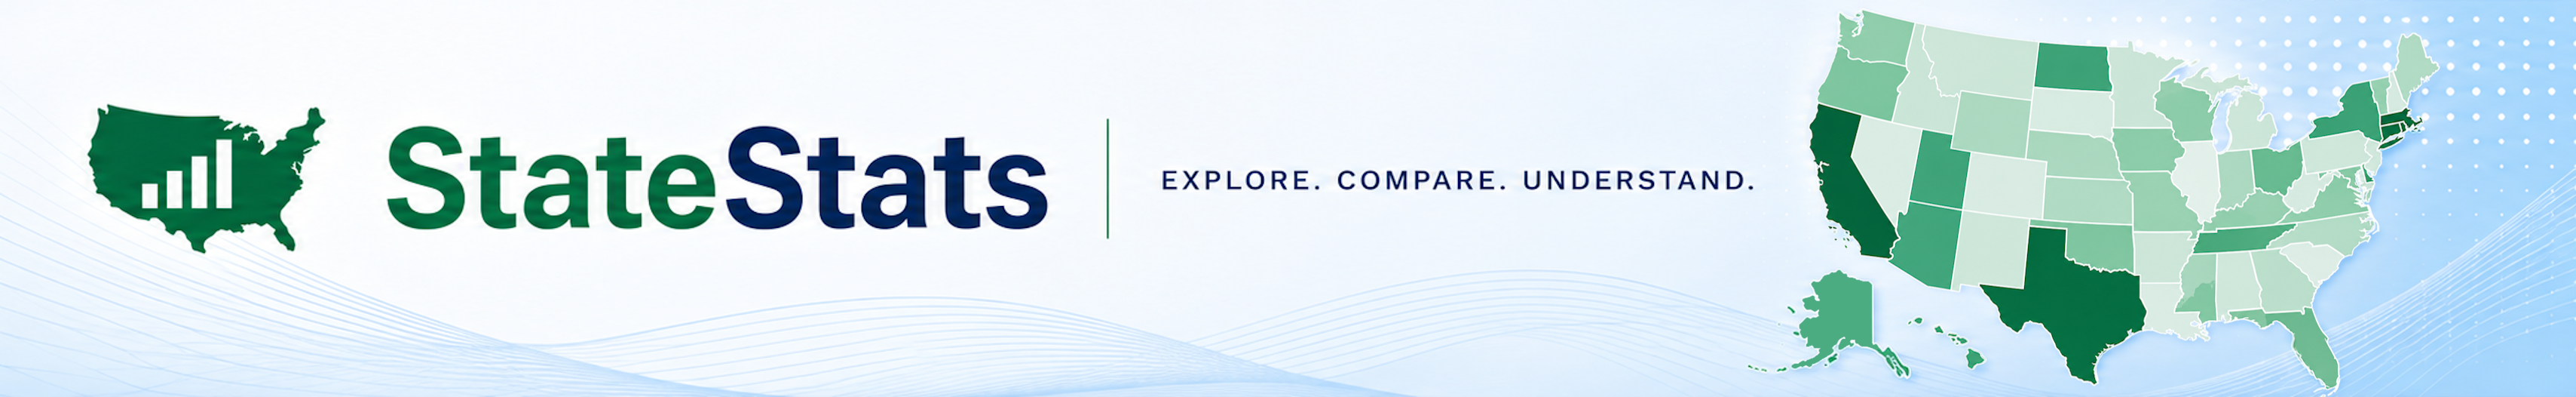
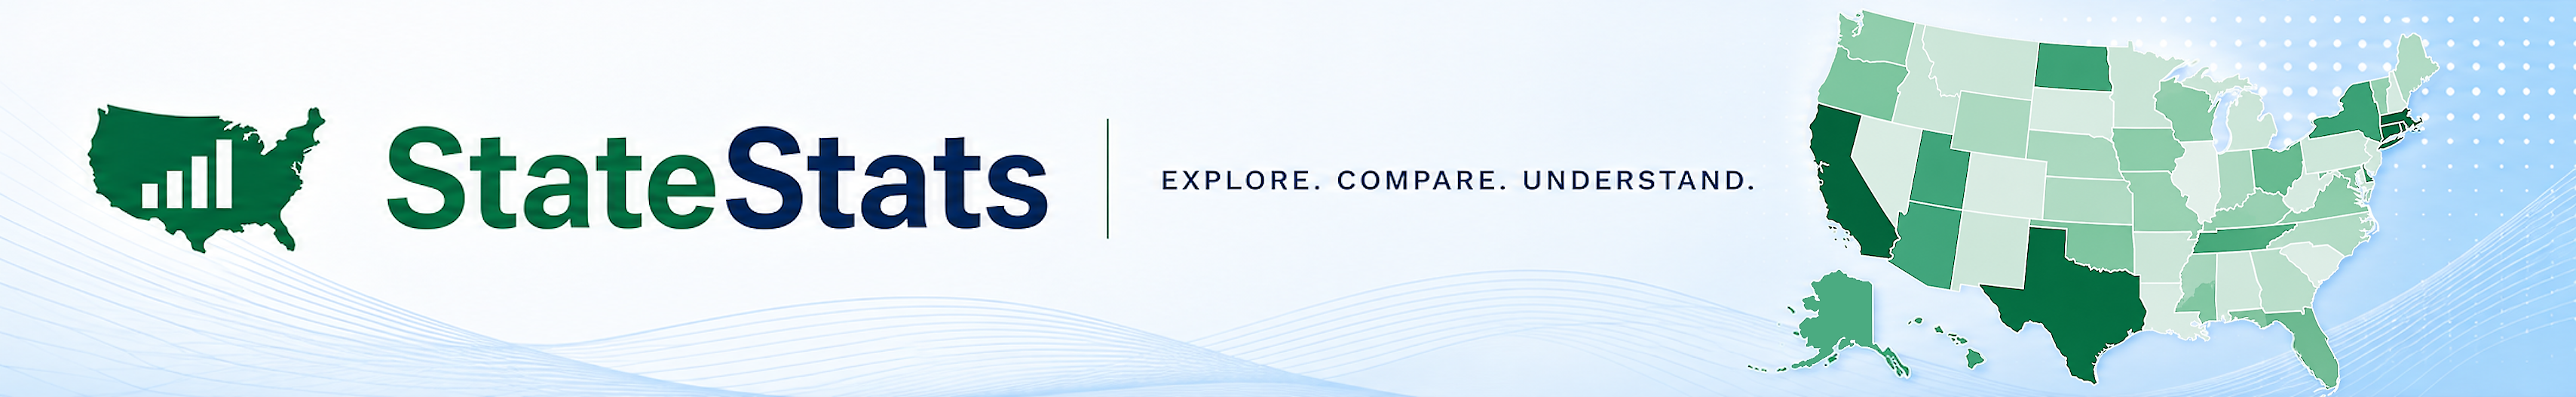
Refactored About page

Changed region(s): [[0.4653, 0.4259, 0.6825, 0.4867], [0.9306, 0.3042, 0.9617, 0.3346], [0.8996, 0.3346, 0.9306, 0.365]]

diff --git a/app/about/page.tsx b/app/about/page.tsx
@@ -128,61 +128,64 @@ export default function AboutPage() {
           </div>
         </section>
 
-        <section className="rounded-3xl border border-white/10 bg-slate-900/70 p-5 shadow-[0_16px_40px_rgba(15,23,42,0.22)] md:p-7">
-          <div className="grid gap-6 md:grid-cols-[320px_1fr] md:gap-8">
-            <div className="space-y-4">
-              <p className="text-xs font-semibold uppercase tracking-[0.2em] text-emerald-300">
-                About the creator
-              </p>
-              <div className="flex items-start gap-4">
-                <div className="flex shrink-0 justify-start">
-                  <Image
-                    src="/jason_conklin.png"
-                    alt="Portrait of Jason Conklin, creator of StateStats"
-                    width={112}
-                    height={112}
-                    className="h-28 w-28 rounded-full border border-white/10 object-cover shadow-md"
-                    priority
-                  />
-                </div>
-                <div className="min-w-0 space-y-2">
-                  <p className="text-sm uppercase tracking-[0.18em] text-slate-400">Built by</p>
-                  <div className="space-y-1.5">
-                    <p className="text-xl font-semibold text-slate-50">Jason Conklin</p>
-                    <p className="text-sm text-slate-300">Creator of StateStats</p>
-                    <p className="text-sm leading-relaxed text-slate-400">
-                      B.S. Computer Science, New Jersey Institute of Technology (NJIT)
-                    </p>
+        <section className="space-y-4 md:space-y-5">
+          <div className="space-y-1">
+            <p className="text-xs font-semibold uppercase tracking-[0.2em] text-slate-400">About the creator</p>
+            <h3 className="text-xl font-semibold text-white md:text-2xl">The perspective and intent behind StateStats</h3>
+          </div>
+          <div className="rounded-3xl border border-white/10 bg-slate-900/70 p-5 shadow-[0_16px_40px_rgba(15,23,42,0.22)] md:p-7">
+            <div className="grid gap-6 md:grid-cols-[320px_1fr] md:gap-8">
+              <div className="space-y-4">
+                <div className="flex items-start gap-4">
+                  <div className="flex shrink-0 justify-start">
+                    <Image
+                      src="/jason_conklin.png"
+                      alt="Portrait of Jason Conklin, creator of StateStats"
+                      width={112}
+                      height={112}
+                      className="h-28 w-28 rounded-full border border-white/10 object-cover shadow-md"
+                      priority
+                    />
+                  </div>
+                  <div className="min-w-0 space-y-2">
+                    <p className="text-sm uppercase tracking-[0.18em] text-slate-400">Built by</p>
+                    <div className="space-y-1.5">
+                      <p className="text-xl font-semibold text-slate-50">Jason Conklin</p>
+                      <p className="text-sm text-slate-300">Creator of StateStats</p>
+                      <p className="text-sm leading-relaxed text-slate-400">
+                        B.S. Computer Science, New Jersey Institute of Technology (NJIT)
+                      </p>
+                    </div>
                   </div>
                 </div>
               </div>
-            </div>
-            <div className="border-t border-white/10 pt-6 md:border-l md:border-t-0 md:pt-0 md:pl-8">
-              <div className="max-w-prose border-l-2 border-emerald-400/40 pl-5">
-                <div className="text-4xl leading-none text-emerald-300/25">“</div>
-                <div className="mt-2 space-y-4 text-sm leading-relaxed text-slate-200 md:text-[15px]">
-                  <p>
-                    I created StateStats to make U.S. state-level data easier to explore, compare, and
-                    trust without needing spreadsheets or complicated tools. I enjoy combining clean
-                    design with public data so students, journalists, and policy-curious citizens can
-                    quickly see how states differ over time.
-                  </p>
-                  <p>
-                    My goal is to keep this site clear, transparent, and genuinely useful as new
-                    metrics and years of data are added.
-                  </p>
-                  <p>
-                    Learn more about Jason at{" "}
-                    <a
-                      href="https://jasonconklin.dev"
-                      target="_blank"
-                      rel="noreferrer"
-                      className="font-medium text-emerald-300 underline-offset-2 hover:underline"
-                    >
-                      jasonconklin.dev
-                    </a>
-                    .
-                  </p>
+              <div className="border-t border-white/10 pt-6 md:border-l md:border-t-0 md:pt-0 md:pl-8">
+                <div className="max-w-prose border-l-2 border-emerald-400/40 pl-5">
+                  <div className="text-4xl leading-none text-emerald-300/25">“</div>
+                  <div className="mt-2 space-y-4 text-sm leading-relaxed text-slate-200 md:text-[15px]">
+                    <p>
+                      I created StateStats to make U.S. state-level data easier to explore, compare, and
+                      trust without needing spreadsheets or complicated tools. I enjoy combining clean
+                      design with public data so students, journalists, and policy-curious citizens can
+                      quickly see how states differ over time.
+                    </p>
+                    <p>
+                      My goal is to keep this site clear, transparent, and genuinely useful as new
+                      metrics and years of data are added.
+                    </p>
+                    <p>
+                      Learn more about Jason at{" "}
+                      <a
+                        href="https://jasonconklin.dev"
+                        target="_blank"
+                        rel="noreferrer"
+                        className="font-medium text-emerald-300 underline-offset-2 hover:underline"
+                      >
+                        jasonconklin.dev
+                      </a>
+                      .
+                    </p>
+                  </div>
                 </div>
               </div>
             </div>